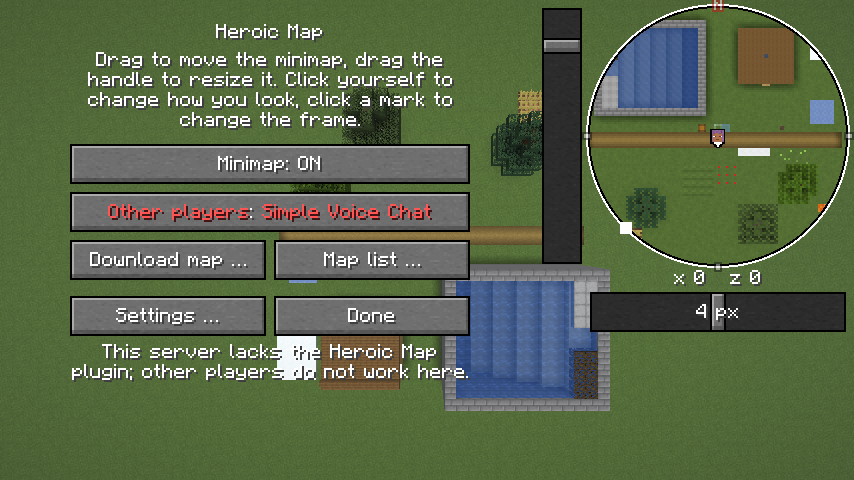
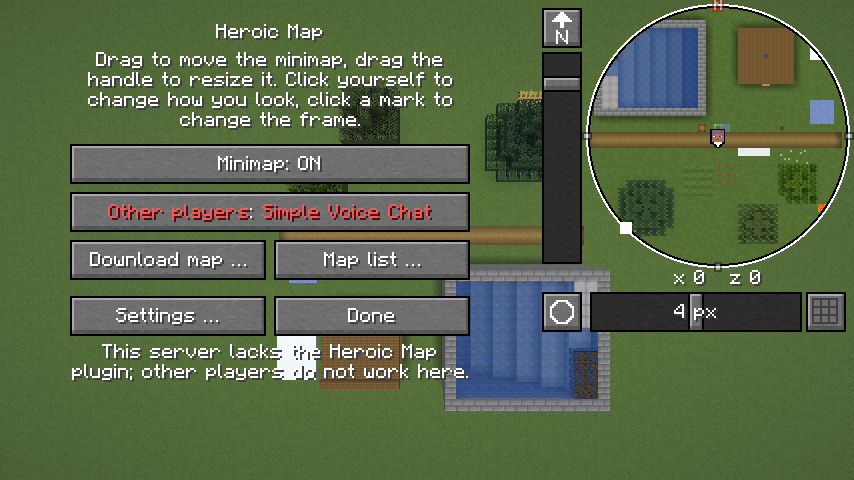
Bilder von Menü und Untermenü mit dem L und den Gruppen (#175)

diff --git a/docs/minimap.md b/docs/minimap.md
@@ -47,7 +47,7 @@ steht unter „Kosten“.
 
 `/hmap` öffnet das Menü (`Einstellungen`):
 
-![Das Menü über der Szene des Gametests, die Minimap rund mit den Koordinaten darunter, links daneben der senkrechte Regler „Zoom der Minimap“, unter den Koordinaten der Regler „Auflösung“; „Minimap“ ganz breit; im Einzelspieler ohne Plugin steht „Mitspieler“ rot](bilder/menue.png)
+![Das Menü über der Szene des Gametests, die Minimap rund mit den Koordinaten darunter, um sie das L: links oben der Nordpfeil, darunter der senkrechte Regler „Zoom der Minimap“, in der Ecke das Symbol der Form, unter den Koordinaten der Regler „Auflösung“ und rechts das Raster; „Minimap“ ganz breit; im Einzelspieler ohne Plugin steht „Mitspieler“ rot](bilder/menue.png)
 
 | Einstellung | Vorgabe | tut |
 |---|---|---|
